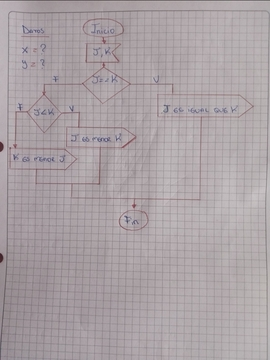
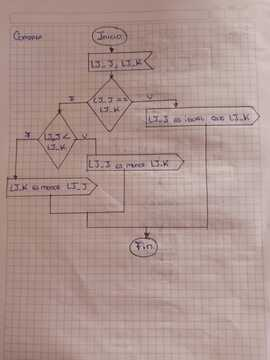
COMPARACION DE DOS NUMEROS-SEGUNDA VERSION

diff --git a/lucasjavier/ACTIVIDAD-B2-C2/LucasJavier-Compara.cpp b/lucasjavier/ACTIVIDAD-B2-C2/LucasJavier-Compara.cpp
@@ -1,20 +1,38 @@
+//=================================================
+
+//==> Nombre del programa: Comparacion dos numeros
+
+//==> Archivo : LucasJavier-Compara.cpp
+//==>Autor: Javier Lucas
+//==>Fecha de elaboración: 2022-04-23
+//==>Fecha ultima actualización: 2022-05-19
+//==================================================
+
 #include <iostream>
 using namespace std;
 int main()
 {
-	float J,K;
-	cout<<"Escribir el primer valor: "<<endl;
-	cin>>J;
-	cout<<"Escribir el segundo valor: "<<endl;
-	cin>>K;
-	if (J==K){
-	cout<<"El primer valor es igual al segundo valor"<<endl;
+	float LJ_J,LJ_K;
+	cout<<"Digite un valor: "<<endl;
+	cin>>LJ_J;
+	cout<<"Digite un valor: "<<endl;
+	cin>>LJ_K;
+
+	if (LJ_J==LJ_K){
+	cout<<"Los dos valores son iguales"<<endl;
 	}
-	else if (J>K){
-		cout<<"El valor "<<J<<" es mayor que "<<K<<endl;
+	else if (LJ_J>LJ_K){
+		cout<<"El valor "<<LJ_J<<" es mayor que "<<LJ_K<<endl;
 	}
 	else{
-		cout<<"El valor "<<K<<" es mayor que "<<J<<endl;
+		cout<<"El valor "<<LJ_K<<" es mayor que  "<<LJ_J<<endl;
 	} 
+	cout<<endl<<"//================================================="<<endl;
+cout<<"//==> Nombre del programa: Comparacion dos numeros"<<endl;
+cout<<"//==> Archivo : LucasJavier-Compara.cpp"<<endl;
+cout<<"//==>Autor: Javier Lucas"<<endl;
+cout<<"//==>Fecha de elaboración: 2022-04-23"<<endl;
+cout<<"//==>Fecha ultima actualización: 2022-05-19"<<endl;
+cout<<"//=================================================="<<endl;
 	return 0;
 }
